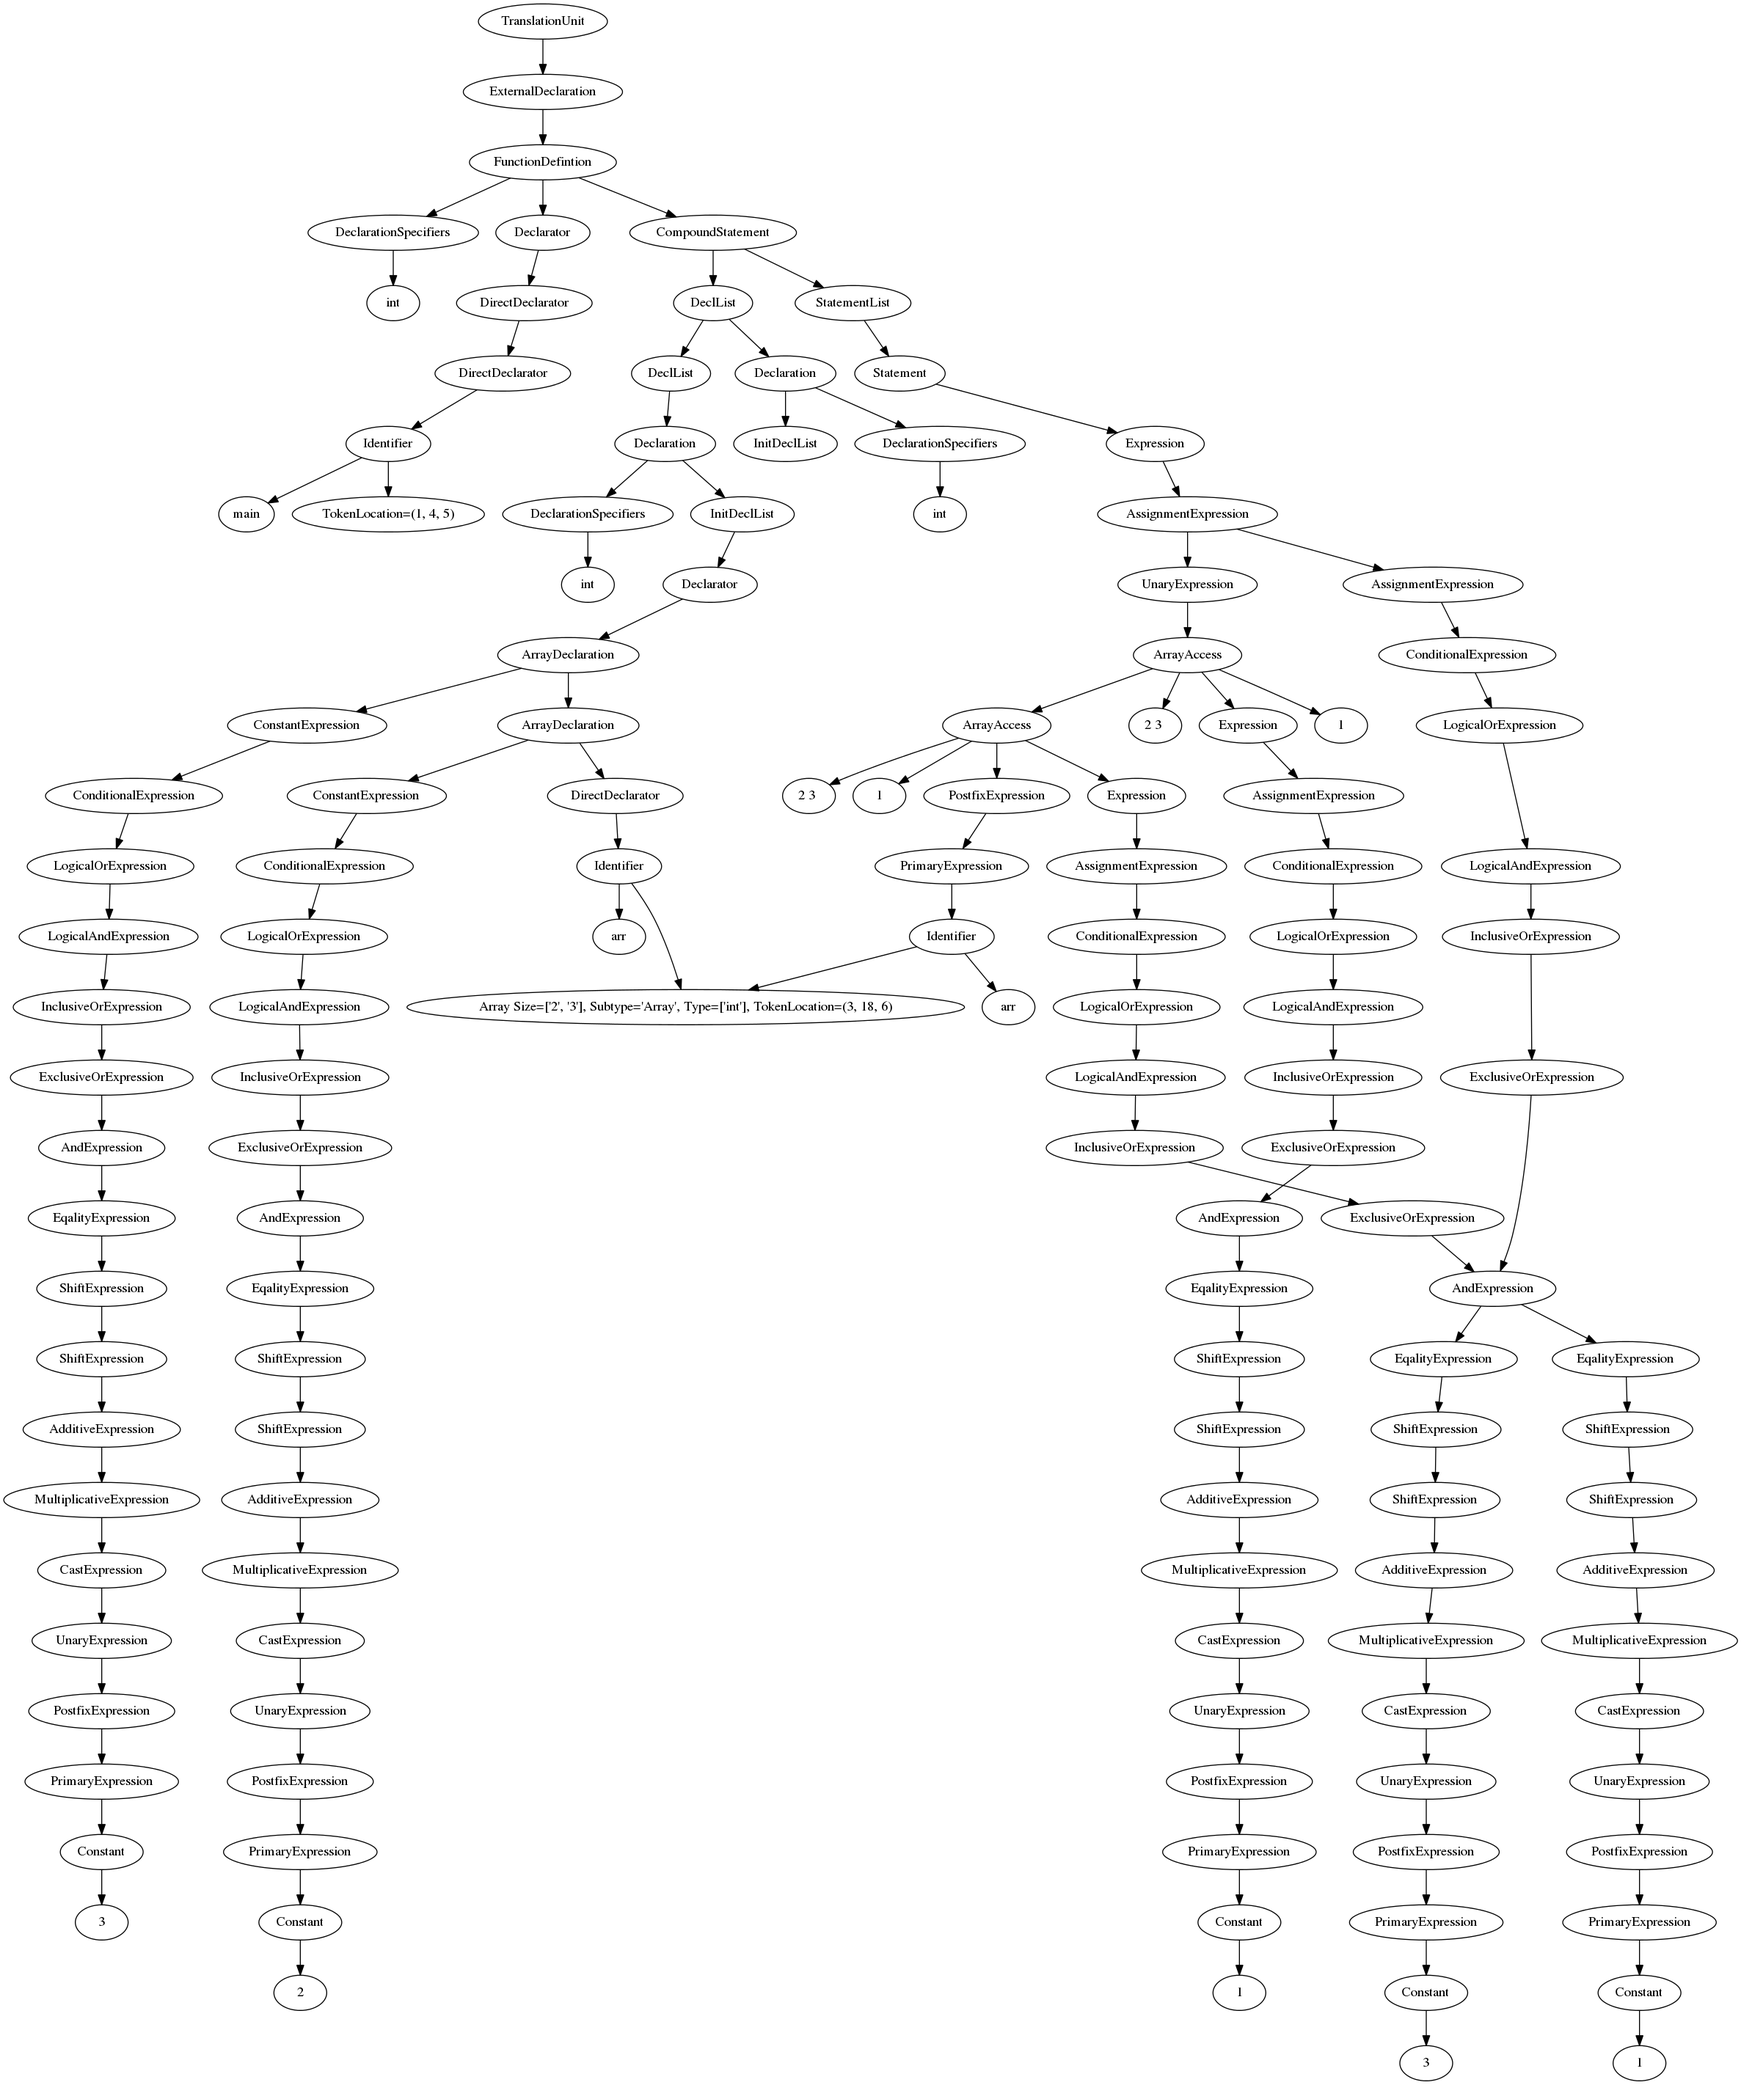
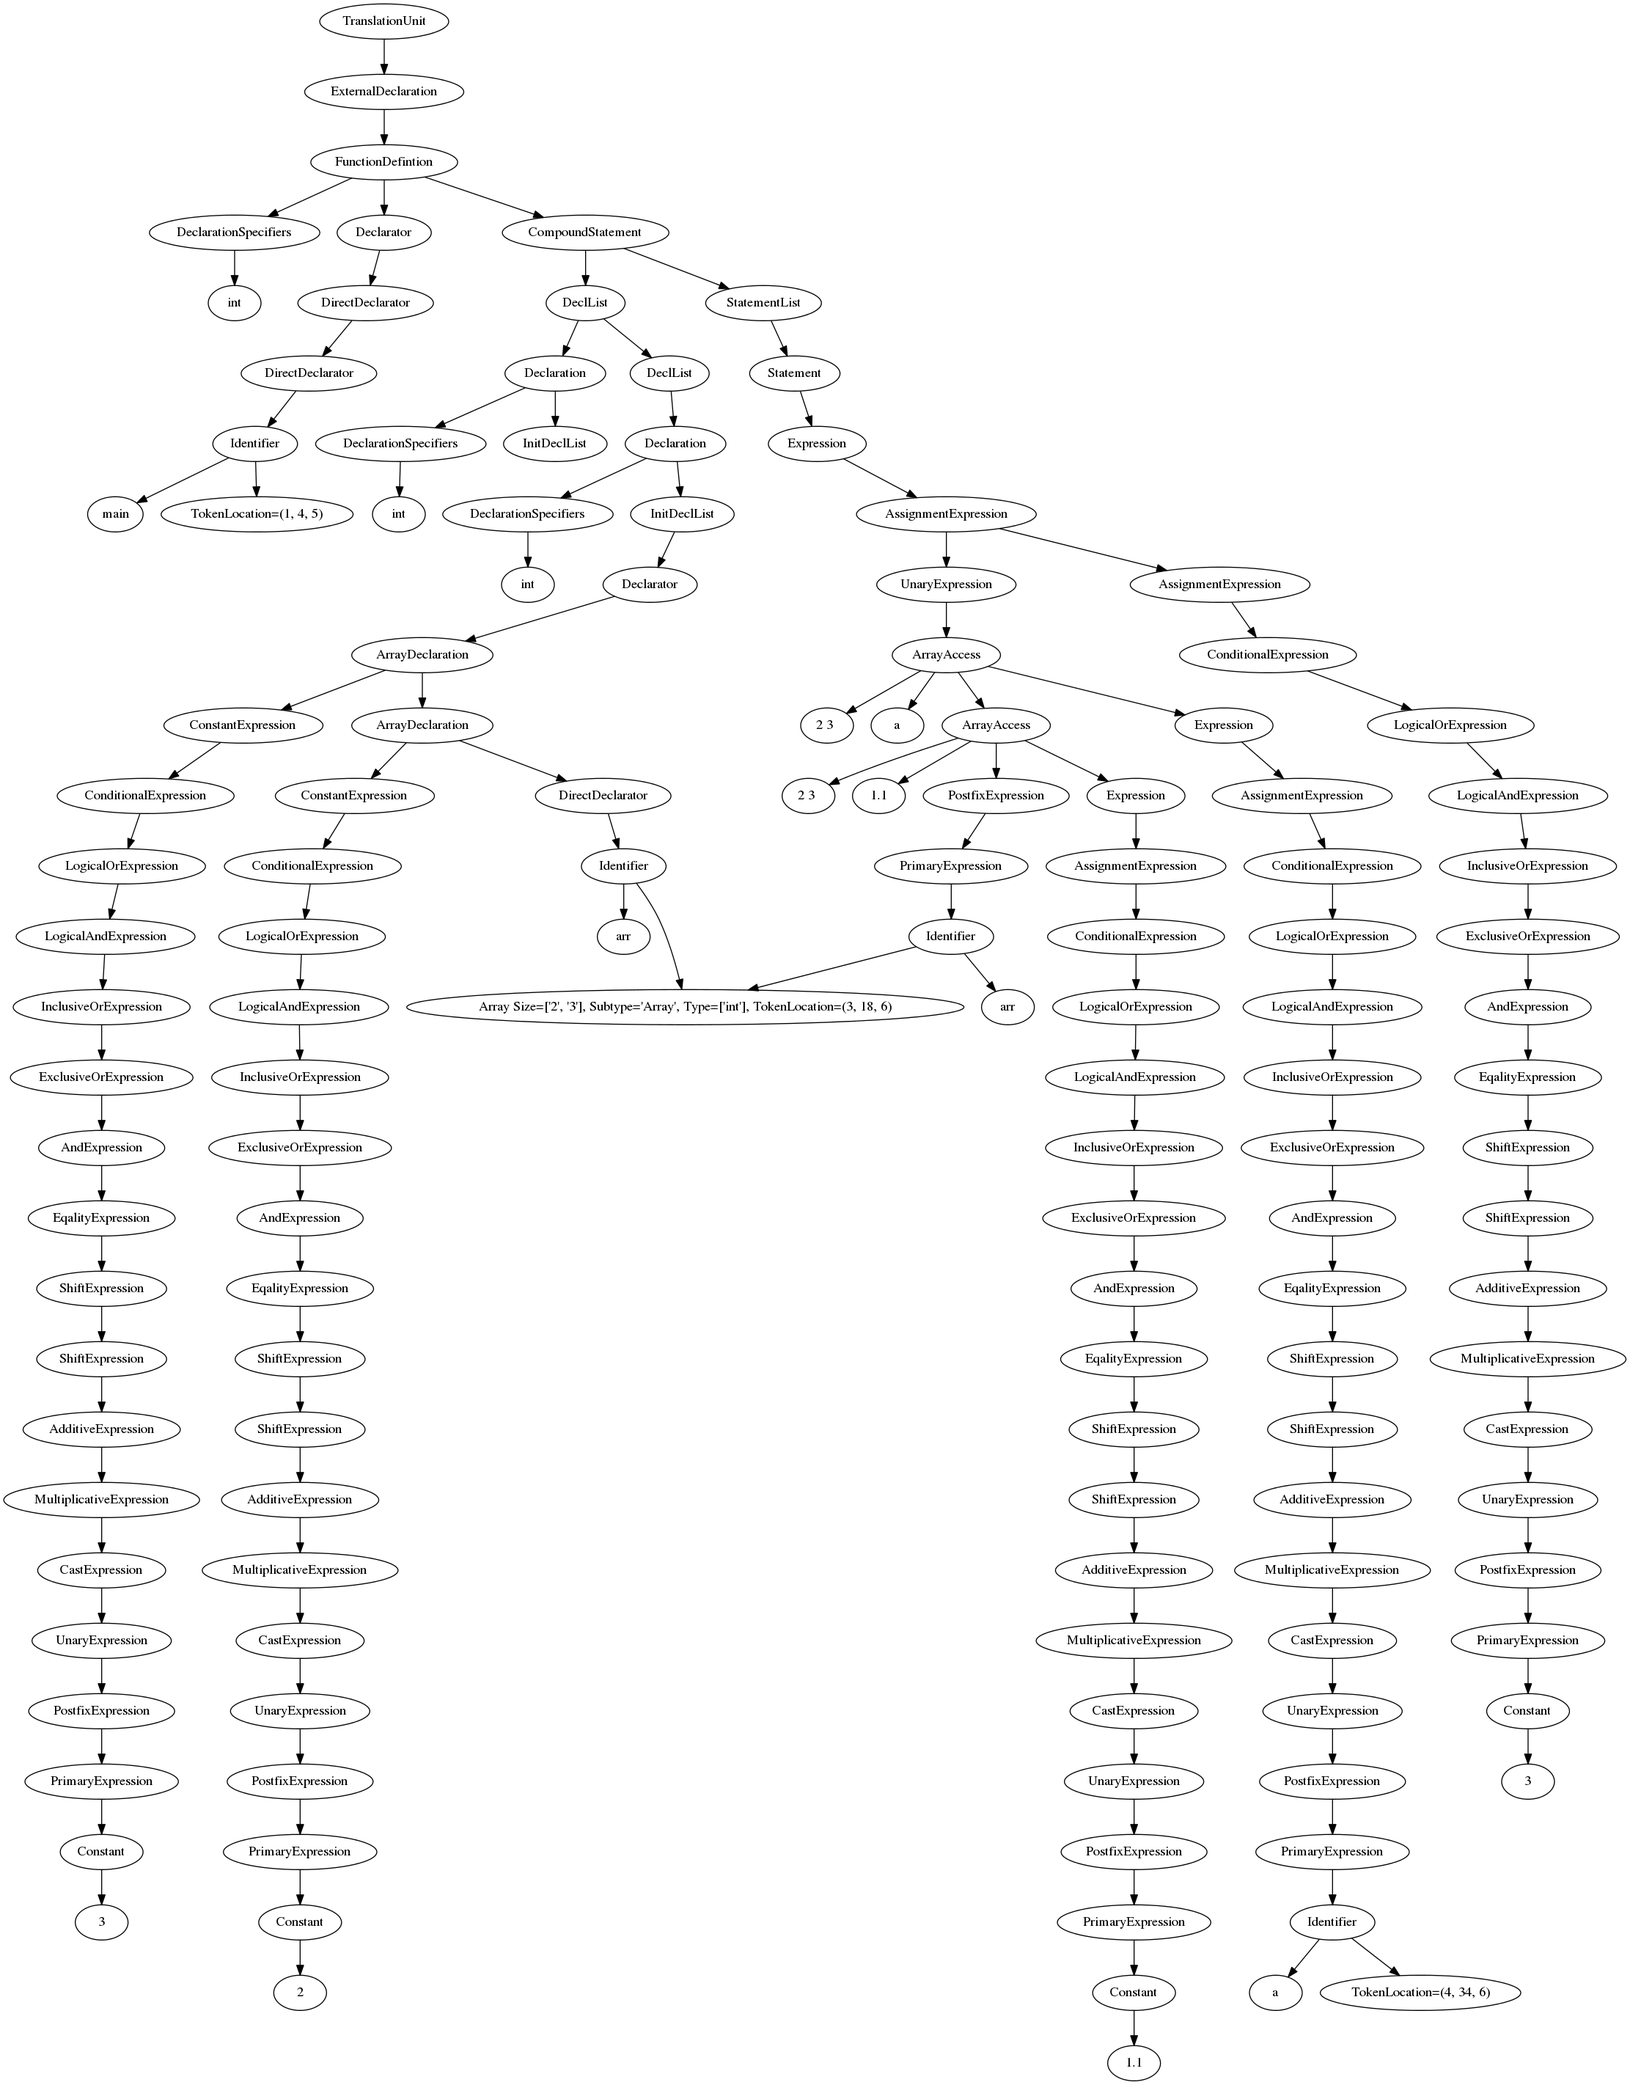
sample IO in c and python with type checking

diff --git a/Parser/SampleIO/IOTest.py b/Parser/SampleIO/IOTest.py
@@ -1,0 +1,43 @@
+def ReadInInt():
+	ReadInt = input()
+	if ReadInt.__class__.__name__ == 'int':
+		return ReadInt
+	else:
+		print ("not an int")
+		return False
+
+def WriteInt(IntToWrite):
+	if IntToWrite.__class__.__name__ == 'int':
+		print (IntToWrite)
+	else:
+		print ("not an int")
+
+def ReadInFloat():
+	ReadFloat = input()
+	if ReadFloat.__class__.__name__ == 'float':
+		return ReadFloat
+	else:
+		print ("not a float")
+		return False
+
+def WriteFloat(FloatToWrite):
+	if FloatToWrite.__class__.__name__ == 'float':
+		print (FloatToWrite)
+	else:
+		print ("not a float")
+
+def ReadInChar():
+	ReadChar = raw_input()
+	if ReadChar.__class__.__name__ == 'str' and len(ReadChar) == 1:
+		return ReadChar
+	else:
+		if ReadChar.__class__.__name__ != 'str':
+			print ("not string")
+		if len(ReadChar) > 1:
+			print ("length > 1")
+
+def WriteChar(CharToWrite):
+	if CharToWrite.__class__.__name__ == 'str' and len(CharToWrite) == 1:
+		print (CharToWrite)
+	else:
+		print ("not string or length > 1")

diff --git a/Parser/SampleIO/SampleIO.h b/Parser/SampleIO/SampleIO.h
@@ -1,0 +1,37 @@
+#include <stdio.h>
+
+int ReadInt()
+{
+	int ReadIn;
+	scanf ("%d", &ReadIn);
+	return ReadIn;
+}
+
+void WriteInt(int ToWrite)
+{
+	printf ("%d\n", ToWrite);
+}
+
+float ReadFloat()
+{
+	float ReadIn;
+	scanf("%f", &ReadIn);
+	return ReadIn;
+}
+
+void WriteFloat(float ToWrite)
+{
+	printf ("%f\n", ToWrite);
+}
+
+char ReadChar()
+{
+	char ReadIn;
+	scanf("%c", &ReadIn);
+	return ReadIn;
+}
+
+char WriteChar(char ToWrite)
+{
+	printf("%c\n", ToWrite);
+}

diff --git a/Parser/SampleIO/IOTest.c b/Parser/SampleIO/IOTest.c
@@ -1,0 +1,17 @@
+#include "SampleIO.h"
+
+int main()
+{
+	int a;
+	float b;
+	char c;
+
+	c = ReadChar();
+	b = ReadFloat();
+	a = ReadInt();
+	WriteInt(a);
+	WriteFloat(b);
+	WriteChar(c);
+
+	return 0;
+}

diff --git a/Parser/SampleIO/IORunTest.py b/Parser/SampleIO/IORunTest.py
@@ -1,0 +1,4 @@
+from IOTest import ReadInInt, ReadInFloat, WriteInt, WriteFloat, ReadInChar, WriteChar
+
+c = ReadInChar()
+WriteChar(c)

diff --git a/Parser/KurtTest.c b/Parser/KurtTest.c
@@ -1,6 +1,6 @@
 int main()
 {
-	int arr[3];
+	int arr[3][3];
 	int a = 1;
-	arr[1.1] = 3;
+	arr[1][2.2] = 3;
 }
